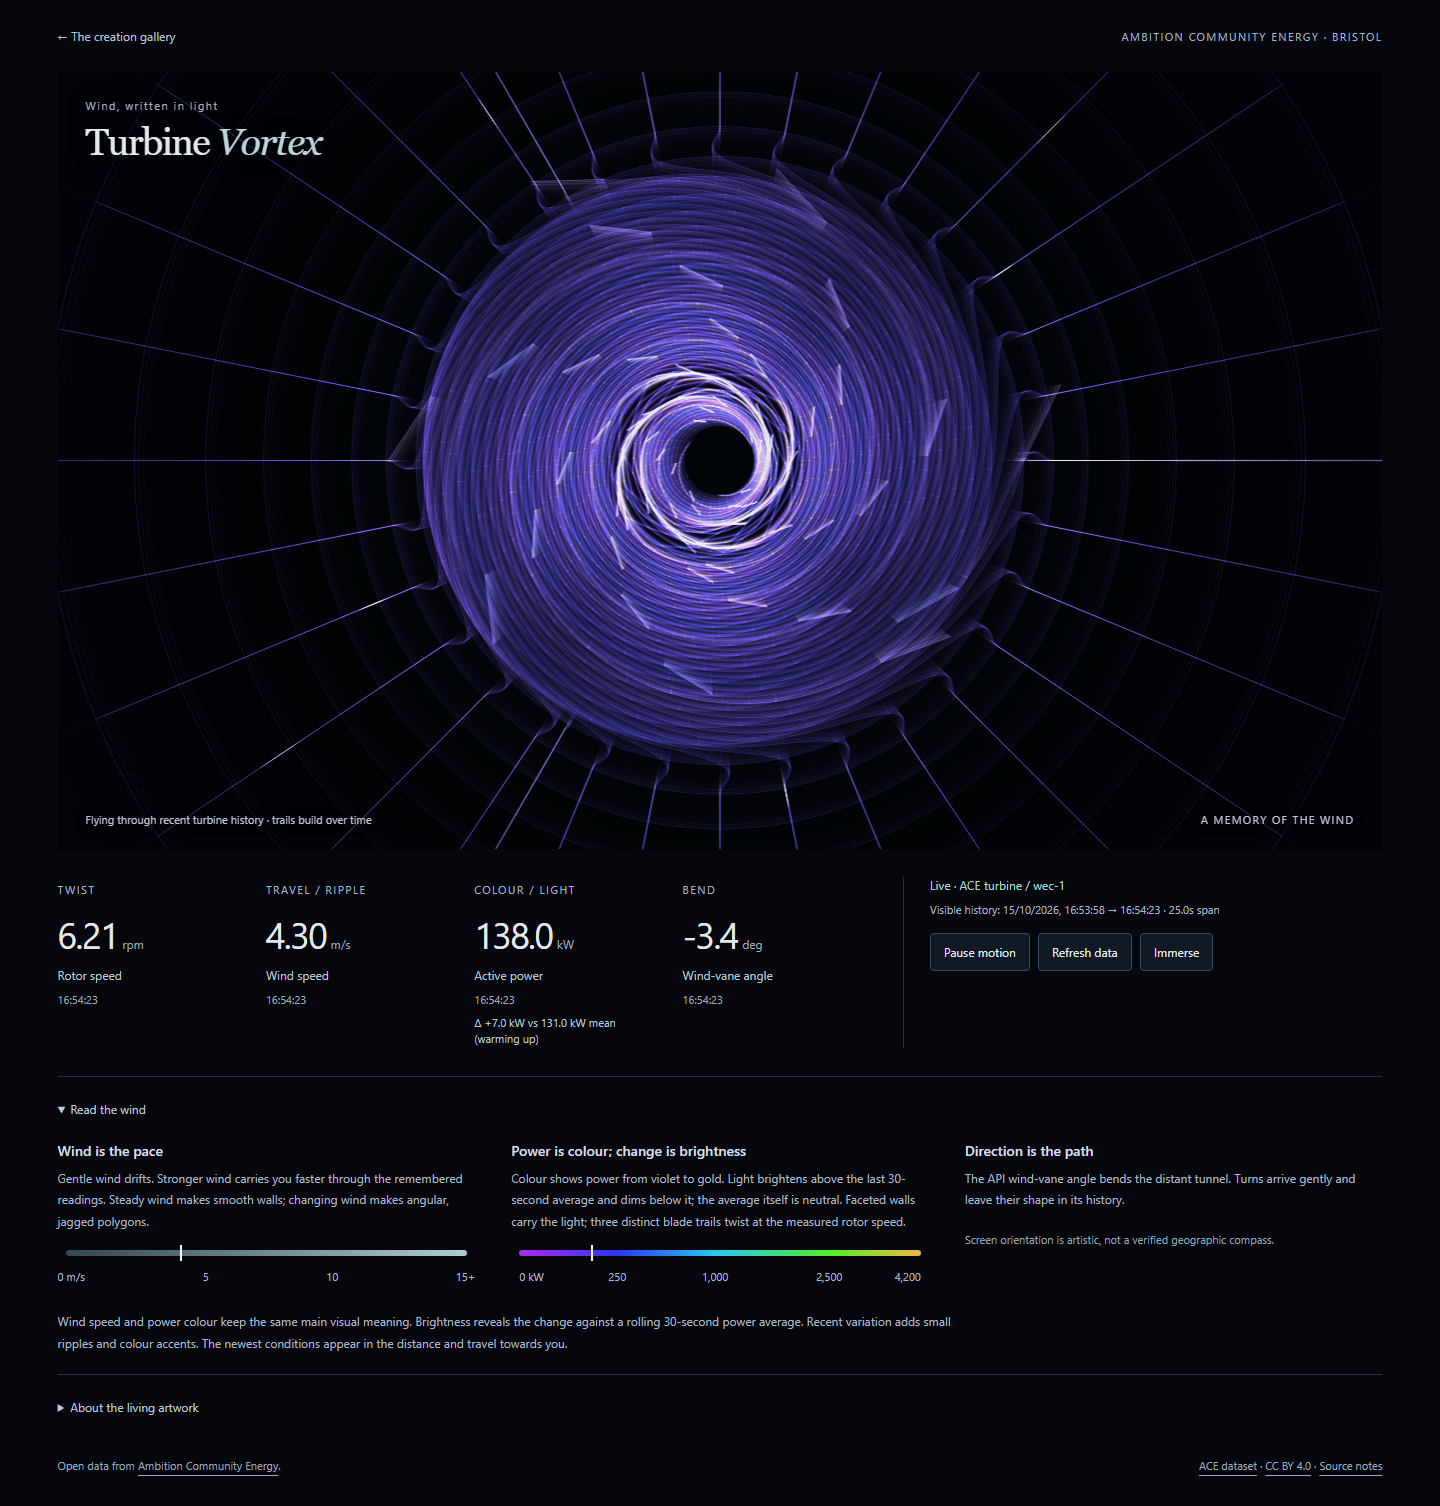
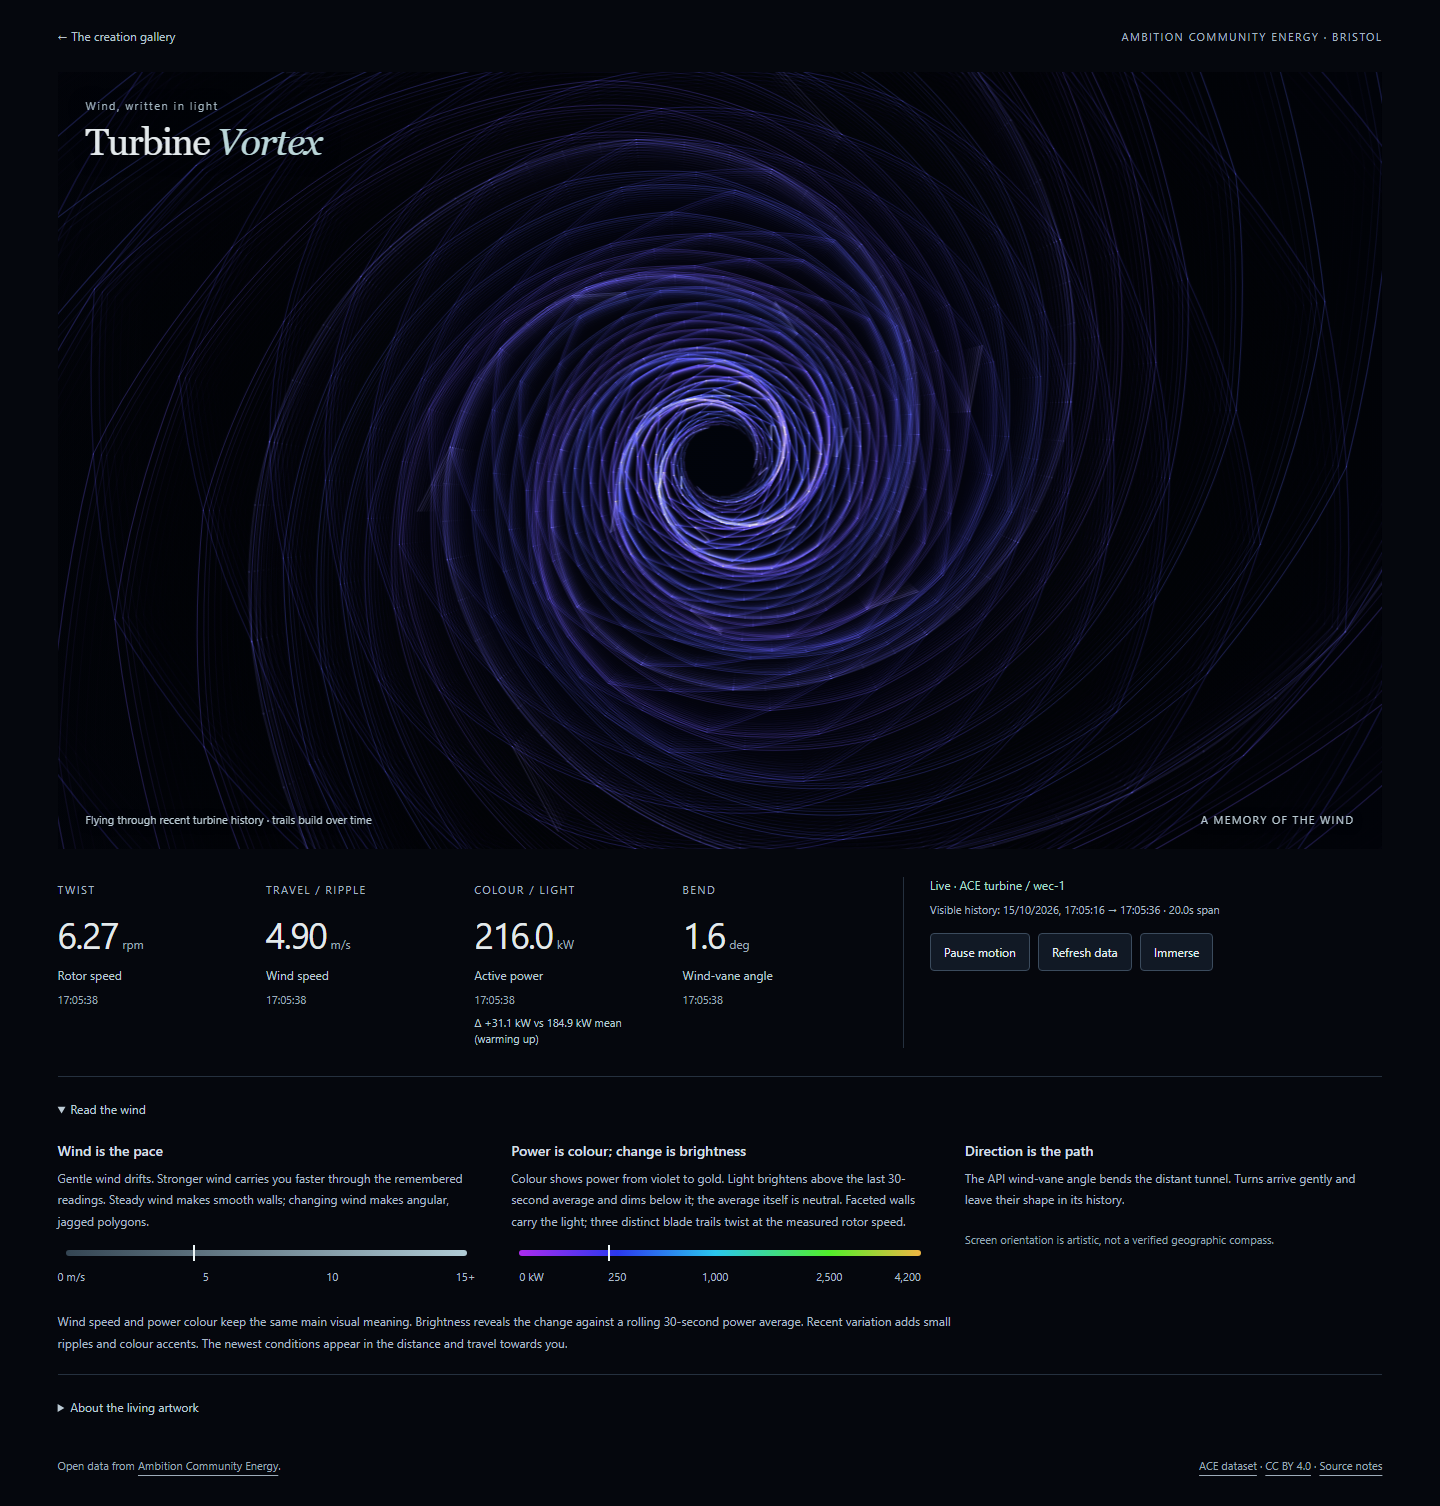
Calm vortex texture, shorten history and add slow scene roll

diff --git a/site/creations/turbine-vortex/index.html b/site/creations/turbine-vortex/index.html
@@ -19,6 +19,6 @@
 <div><h2>Power is colour; change is brightness</h2><p>Colour shows power from violet to gold. Light brightens above the last 30-second average and dims below it; the average itself is neutral. Faceted walls carry the light; three distinct blade trails twist at the measured rotor speed.</p><div class="scale power-scale" aria-hidden="true"><i id="power-marker"></i></div><div class="power-labels"><span style="--at:0%">0 kW</span><span style="--at:24.4%">250</span><span style="--at:48.8%">1,000</span><span style="--at:77.2%">2,500</span><span style="--at:100%">4,200</span></div></div>
 <div><h2>Direction is the path</h2><p>The API wind-vane angle bends the distant tunnel. Turns arrive gently and leave their shape in its history.</p><p class="quiet-note">Screen orientation is artistic, not a verified geographic compass.</p></div>
 </div><p class="guide-note">Wind speed and power colour keep the same main visual meaning. Brightness reveals the change against a rolling 30-second power average. Recent variation adds small ripples and colour accents. The newest conditions appear in the distance and travel towards you.</p></details>
-<details class="technical-notes"><summary>About the living artwork</summary><div class="explanation"><p>Measured RPM turns three distinct blade trails, spaced 120 degrees apart, together with the polygonal walls. There is no rotation-speed multiplier or extra depth twist. The rotor itself is hidden; this is an artistic wake, not a fluid simulation. Wind controls travel and ripples, power controls colour and streak density while its deviation from a 30-second mean controls brightness, and wind-vane angle steers the tunnel. These are artistic mappings, not a physical simulation. History builds from live readings during this visit; startup geometry uses the first reading throughout.</p><p>One combined request every two seconds. Observation timestamps come from the data, displayed in your local timezone. The visible-history span shows the oldest and newest observations still represented. Freshness uses API-relative signal ages and elapsed time since observations advance, not differences from the computer clock. If any signal is invalid, unavailable or stops advancing for over 60 seconds, the artwork rests with labelled retained readings. No simulated readings replace live data.</p><p>Immerse fills the screen. Its controls fade after six seconds of inactivity; move, tap or use the keyboard to bring them back. Connection warnings remain visible. Pause and reduced-motion support are available throughout.</p></div></details>
+<details class="technical-notes"><summary>About the living artwork</summary><div class="explanation"><p>Measured RPM turns three distinct blade trails, spaced 120 degrees apart, together with the polygonal walls. The three-blade motion uses the measured RPM; a separate slow artistic roll turns the whole scene. The rotor itself is hidden; this is an artistic wake, not a fluid simulation. Wind controls travel and ripples, power controls colour and streak density while its deviation from a 30-second mean controls brightness, and wind-vane angle steers the tunnel. These are artistic mappings, not a physical simulation. History builds from live readings during this visit; startup geometry uses the first reading throughout.</p><p>One combined request every two seconds. Observation timestamps come from the data, displayed in your local timezone. The visible-history span shows the oldest and newest observations still represented. Freshness uses API-relative signal ages and elapsed time since observations advance, not differences from the computer clock. If any signal is invalid, unavailable or stops advancing for over 60 seconds, the artwork rests with labelled retained readings. No simulated readings replace live data.</p><p>Immerse fills the screen. Its controls fade after six seconds of inactivity; move, tap or use the keyboard to bring them back. Connection warnings remain visible. Pause and reduced-motion support are available throughout.</p></div></details>
 <footer><span>Open data from <a href="https://ambitioncommunityenergy.org/">Ambition Community Energy</a>.</span><span><a href="https://doi.org/10.5281/zenodo.22662372">ACE dataset</a> · <a href="https://creativecommons.org/licenses/by/4.0/">CC BY 4.0</a> · <a href="./README.md">Source notes</a></span></footer>
 </main><script type="module" src="./artwork.mjs"></script></body></html>

diff --git a/site/creations/turbine-vortex/README.md b/site/creations/turbine-vortex/README.md
@@ -19,7 +19,7 @@ Docs, OpenAPI, `/v1/sites`, `/v1/sites/ace/assets`, `/v1/families` and a live co
 - Metadata was checked during development and is not repeatedly fetched by visitors. All four fields are requested together with `limit=1`.
 - Each field must be finite with case-insensitive `Good` quality and a valid `series_observed_at` Unix microsecond timestamp, converted to milliseconds. Nulls, missing fields, invalid quality, invalid observation dates and regressing observations are rejected. Negative wind/RPM are rejected; signed power and vane angles remain visible. Valid zero is preserved. If the direction signal fails or is stale, the artwork rests rather than inventing a heading.
 - **60 seconds** is the chosen stale threshold, not a server guarantee. Freshness uses the gap between each signal and the API data clock (the maximum of observation and valid collection timestamps), plus monotonic `performance.now()` time since that field last advanced. Duplicate responses cannot reset this timer. If collection timestamps are absent, initial absolute age is unknown; the newest observation anchors the relative age and lack of advancement is still detected. No comparison with the computer wall clock is used for validation or freshness; no ahead-of-computer warnings are shown. Old or stalled signals rest the artwork and emit a warning once per stale episode, while polling continues.
-- The observation area shows oldest/newest timestamps and their span **for retained tunnel layers**, not time since fetch. Timestamps are from the data, formatted in the viewer's timezone. Raster afterimages can fade for about 1.2 seconds after a layer is discarded and are not counted in that span. Malformed/offline/timeout errors retain labelled readings, show a reason and emit a console warning; no demo fallback is used.
+- The observation area shows oldest/newest timestamps and their span **for retained tunnel layers**, not time since fetch. Timestamps are from the data, formatted in the viewer's timezone. Raster afterimages can fade for about 1 second after a layer is discarded and are not counted in that span. Malformed/offline/timeout errors retain labelled readings, show a reason and emit a console warning; no demo fallback is used.
 - Automatic polling reschedules when a browser timer fires before its monotonic deadline, rounded up to a whole millisecond. The old early-return path could silently strand the polling loop. Manual refresh shares the same rearming guard, cooldown, backoff and Retry-After restrictions. Tests reproduce early delivery for 10,000 poll cycles, in addition to overlap, stop/resume and rate-limit cases.
 
 ## Artistic mapping and adaptive scale
@@ -32,9 +32,9 @@ Wind controls light-wave spacing and camera speed `0.4 + 1.2 × clamp(wind/15)` 
 
 Vane direction is wrapped to [-180,180) for rendering, with an eight-second time constant and shortest-arc easing across wraparound. Each layer remembers its angle. Sine/cosine project it onto a bounded screen bend, strongest in the distance; historical bends travel towards the viewer. Screen-up/left/right are artistic orientations, not geographic bearings. No nacelle angle or unverified compass transformation is inferred.
 
-`tunnel.mjs` keeps an in-memory sequence of cross-sections. Every 0.65 seconds of active animation a new layer stores the smoothed wind, power, vane angle, brightness, detail accents, rotor-driven twist and current observation time. Those attributes remain attached to it as it approaches the viewer. Perspective expansion makes layers and bright beads pass out of the frame. Thirty-two fine wall filaments provide context; **three brighter wake strands begin at three rotating points around a centred, circular origin**. The trail origins and calm cross-sections are circular in equal pixel coordinates, without vertical squash. This is an artistic tip-wake depiction, not a fluid-dynamics simulation. Wind-dependent travel yields roughly **17–69 seconds of active visual history**; layers are discarded when their complete wake envelope passes beyond the furthest viewport corner, or crosses the near plane. This can shorten the visible span from the depth-only limit, depending on screen shape and wind. Storage is also capped at 140 layers; expired layers have no persistent references. The five-minute adaptive buffers are capped at 512 samples each, and the 30-second power buffer at 256 samples (normally far fewer at two-second polling). Startup geometry is initialized together from the first live state, not a fabricated historical feed. History then develops from readings received during this visit, without extra API requests or persistent storage.
+`tunnel.mjs` keeps an in-memory sequence of cross-sections. Every 0.65 seconds of active animation a new layer stores the smoothed wind, power, vane angle, brightness, detail accents, rotor-driven twist and current observation time. Those attributes remain attached to it as it approaches the viewer. Perspective expansion makes layers and bright beads pass out of the frame. Twenty-four fine wall filaments provide context; **three brighter wake strands begin at three rotating points around a centred, circular origin**. The trail origins and calm cross-sections are circular in equal pixel coordinates, without vertical squash. This is an artistic tip-wake depiction, not a fluid-dynamics simulation. Wind-dependent travel yields roughly **11–44 seconds of active visual history**; layers are discarded when their complete wake envelope passes beyond the furthest viewport corner, or crosses the near plane. This can shorten the visible span from the depth-only limit, depending on screen shape and wind. Storage is also capped at 140 layers; expired layers have no persistent references. The five-minute adaptive buffers are capped at 512 samples each, and the 30-second power buffer at 256 samples (normally far fewer at two-second polling). Startup geometry is initialized together from the first live state, not a fabricated historical feed. History then develops from readings received during this visit, without extra API requests or persistent storage.
 
-The canvas uses frame-rate-independent exponential fading with a 0.26-second time constant, leaving visible phosphor-like echoes for about 1.2 seconds. Rendering is capped at 30fps, with geometry reused across rings and wall filaments and device-pixel ratio capped at two. This limits raster work during long sessions; actual frame rate depends on hardware. Pause stops both layer movement and trail decay. Stale/unavailable data draws a still subdued tunnel; recovery resumes the retained layers. Resizing clears pixel trails but retains layer history. No external images or rendering libraries are used.
+The canvas uses frame-rate-independent exponential fading with a 0.19-second time constant, leaving visible phosphor-like echoes for about 1 second. Rendering is capped at 30fps, with geometry reused across rings and wall filaments and device-pixel ratio capped at two. This limits raster work during long sessions; actual frame rate depends on hardware. Pause stops both layer movement and trail decay. Stale/unavailable data draws a still subdued tunnel; recovery resumes the retained layers. Resizing clears pixel trails but retains layer history. No external images or rendering libraries are used.
 
 ## Attribution and licence
 
@@ -58,12 +58,16 @@ The blade-tip trails are drawn without any dark rotor mask, so their origins rem
 
 When readings are unavailable, stale, or not yet received, the canvas shows a static, centred straight tunnel with concentric circles and radial spokes. It has no rotor, bend or twist and does not invent observations. Retained live history is frozen and can resume when data returns. Pausing valid live data still freezes the actual artwork.
 
-The rotor is anchored at the exact canvas centre at every vane angle. The wake's bend uses a depth envelope `4d(1-d)` with `d=z/28`, so displacement is zero at the rotor and viewer. Horizontal displacement uses `sin(angle)` and vertical displacement uses `1-cos(angle)`; a neutral zero-degree reading produces no bend on either axis. These are artistic screen coordinates, not compass directions.
+The rotor is anchored at the exact canvas centre at every vane angle. The wake's bend uses a depth envelope `4d(1-d)` with `d=z/18`, so displacement is zero at the rotor and viewer. Horizontal displacement uses `sin(angle)` and vertical displacement uses `1-cos(angle)`; a neutral zero-degree reading produces no bend on either axis. These are artistic screen coordinates, not compass directions.
 
 Startup layers form a straight, smooth centred tunnel: they retain the first live wind/power colours but start with zero bend, roughness and additional depth twist. New live layers introduce rotor rotation, vane bend and wind texture from the blade tips as the initial straight layers travel out of view. Startup geometry is a visual scaffold, not recorded pre-session history.
 
-Perspective expands radial spacing by 4 relative to the original reciprocal-depth projection while preserving the rotor radius: `radius = unit × (1/28.2 + 4 × (1/(z+0.2) - 1/28.2))`. This separates distant turns without changing RPM, sampling or emission timing. Sections reach the screen edges sooner, so the visible data-time span can be shorter; it is reported from the retained layers.
+Perspective expands radial spacing by 4 relative to the original reciprocal-depth projection while preserving the rotor radius: `radius = unit × (1/28.2 + 4 × (1/(z×28/18+0.2) - 1/28.2))`. This separates distant turns without changing RPM, sampling or emission timing. Sections reach the screen edges sooner, so the visible data-time span can be shorter; it is reported from the retained layers.
 
 The local preview hides the rotor graphic entirely. Its measured RPM still advances all three trail origins at the same 1.0 multiplier. Perspective, wind-driven roughness, data history and the straight startup/no-data views are unchanged.
 
-The tunnel treatment keeps brighter, heavier polygonal cross-sections and wall filaments. Three distinct, moderately weighted blade trails are spaced 120 degrees apart. Walls and blade trails share the full retained rotor phase at the existing 1.0 RPM multiplier; neither slow wall rotation nor additional depth twist is applied. Each layer carries its phase outward, so this is an advected history of rotor rotation rather than a rigid spinning spiral. RPM input still eases over 2.5 seconds. Wind-driven polygon roughness is amplified by 1.8 (bounded at 1), with vertex displacement up to 22% of the circular radius. Constant wind targets smooth geometry. Offscreen disposal accounts for polygon indentations. The 4x perspective, straight startup, centred origin and history bounds remain unchanged.
+The tunnel treatment keeps brighter, heavier polygonal cross-sections and wall filaments. Three distinct, moderately weighted blade trails are spaced 120 degrees apart. Walls and blade trails share the full retained rotor phase at the existing 1.0 RPM multiplier; no additional depth twist is applied; the whole scene has a separate slow artistic roll. Each layer carries its phase outward, so this is an advected history of rotor rotation rather than a rigid spinning spiral. RPM input still eases over 2.5 seconds. Wind-driven polygon roughness is amplified by 1.4 (bounded at 1), with vertex displacement up to 16% of the circular radius. Constant wind targets smooth geometry. Offscreen disposal accounts for polygon indentations. The 4x perspective, straight startup, centred origin and history bounds remain unchanged.
+
+The calmer local treatment dims the three spirals by about 24%, reduces wall filaments from 32 to 24, lowers polygon displacement to 16% and wind-roughness gain to 1.4, reduces bead density/brightness, and shortens phosphor persistence from 0.26 to 0.19 seconds. Active depth is 18 units instead of 28, reducing retained sections and visual history by roughly one third. Projection maps these 18 units onto the prior 28-unit depth range to preserve the origin size and 4x perspective. The actual visible span still appears in the status.
+
+A uniform artistic roll of 0.025 radians/second (one turn in about 4 minutes 11 seconds) rotates the whole live scene, including its bend. This is added separately to the measured 1.0 RPM blade phase; apparent screen rotation includes both. It freezes on pause or unavailable/stale data, whose straight tunnel remains unrotated. No extra history buffers are added.
